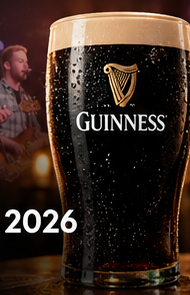
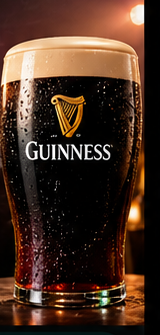
Add files via upload

diff --git a/index.html b/index.html
@@ -73,14 +73,15 @@ button,input,textarea,select{font:inherit} button{cursor:pointer}
 .guinnessPint .handle{position:absolute;right:0;top:17px;width:11px;height:18px;border:3px solid #d9d4c3;border-left:0;border-radius:0 10px 10px 0}
 .guinnessPint .base{position:absolute;left:3px;bottom:0;width:36px;height:4px;background:#d9d4c3;border-radius:4px}
 
-.heroPint{position:absolute;z-index:3;right:10px;top:70px;width:104px;height:170px;object-fit:contain;filter:drop-shadow(0 12px 18px rgba(0,0,0,.55));opacity:.98}
+
+
+.headerPint{width:58px;height:76px;object-fit:contain;display:block;position:absolute;right:26px;bottom:14px;filter:drop-shadow(0 5px 9px rgba(0,0,0,.55));border-radius:10px}
 </style>
 </head>
 <body>
 <div class="app">
   <section class="hero">
     <img src="./pintmen-band.jpg" alt="The Pintmen live">
-    <img class="heroPint" src="./guinness-pint.png" alt="Guinness pint">
     <div class="brand"><div class="kicker">TRAD • TUNES • PINTS • GIGS</div><h1>THE PINTMEN</h1><div class="tag">GIG PLANNER</div></div>
   </section>
   <div class="topbar"><div><div class="title">Good craic, organised.</div><div class="sub">Doyle • Derwin • Marto • Reek • Git</div></div><div class="guinnessPint" aria-label="Pint of stout"><span class="glass"></span><span class="head"></span><span class="handle"></span><span class="base"></span></div></div>

diff --git a/sw.js b/sw.js
@@ -1,4 +1,4 @@
-const CACHE='pintmen-final-v3';
+const CACHE='pintmen-final-v4';
 const ASSETS=['./','./index.html','./manifest.webmanifest','./icon-192.png','./icon-512.png','./pintmen-band.jpg','./guinness-pint.png'];
 self.addEventListener('install',e=>{e.waitUntil(caches.open(CACHE).then(c=>c.addAll(ASSETS)));self.skipWaiting()});
 self.addEventListener('activate',e=>{e.waitUntil(caches.keys().then(k=>Promise.all(k.filter(x=>x!==CACHE).map(x=>caches.delete(x)))));self.clients.claim()});
